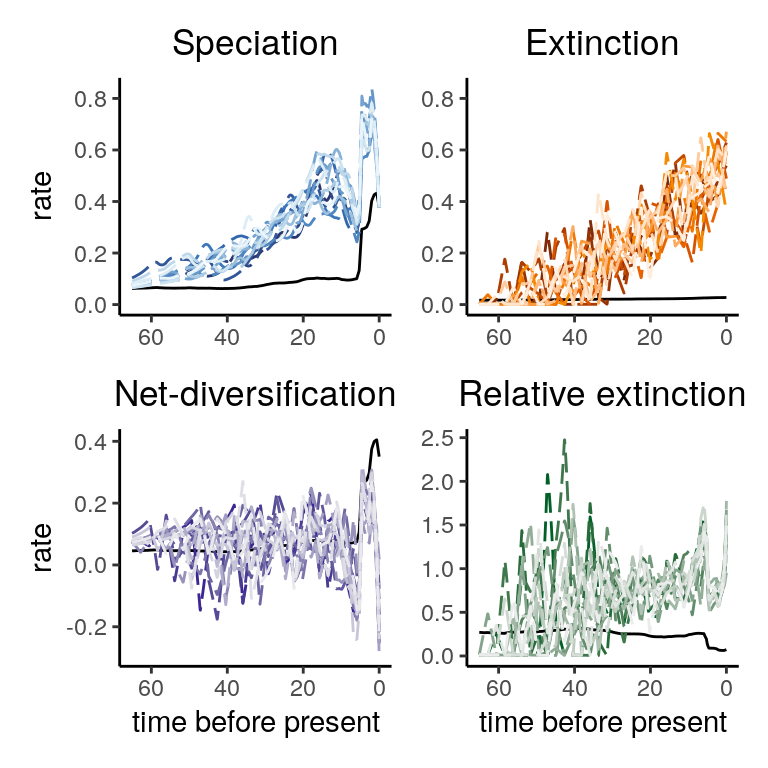
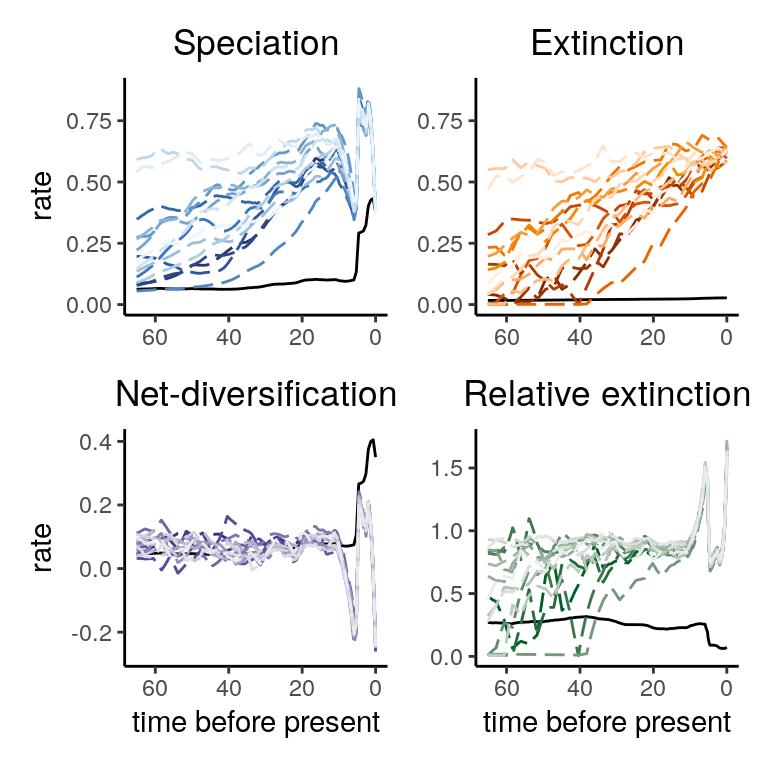
amend BM with a trend so that it actually is autocorrelated

diff --git a/docs/exploring-the-congruence-class.html b/docs/exploring-the-congruence-class.html
@@ -441,10 +441,11 @@ Nonetheless, even in this extreme scenario, the increases and decrease near the 
 <div class="sourceCode" id="cb58"><pre class="sourceCode r"><code class="sourceCode r"><span id="cb58-1"><a href="exploring-the-congruence-class.html#cb58-1"></a>med_times &lt;-<span class="st"> </span><span class="kw">seq</span>(<span class="dv">0</span>, <span class="kw">max</span>(my_model<span class="op">$</span>time), <span class="dt">length.out =</span> <span class="dv">30</span>)</span>
 <span id="cb58-2"><a href="exploring-the-congruence-class.html#cb58-2"></a></span>
 <span id="cb58-3"><a href="exploring-the-congruence-class.html#cb58-3"></a>extinction_rate_samples &lt;-<span class="st"> </span><span class="cf">function</span>(){</span>
-<span id="cb58-4"><a href="exploring-the-congruence-class.html#cb58-4"></a>  y &lt;-<span class="st"> </span><span class="fl">-0.01</span><span class="op">*</span>med_times <span class="op">+</span><span class="st"> </span><span class="kw">rnorm</span>(<span class="dv">30</span>, <span class="dt">mean =</span> <span class="dv">0</span>, <span class="dt">sd =</span> <span class="fl">0.1</span>) <span class="op">+</span><span class="st"> </span><span class="fl">0.5</span></span>
-<span id="cb58-5"><a href="exploring-the-congruence-class.html#cb58-5"></a>  y &lt;-<span class="st"> </span><span class="kw">ifelse</span>(y <span class="op">&lt;</span><span class="st"> </span><span class="fl">0.001</span>, <span class="fl">0.001</span>, y)</span>
-<span id="cb58-6"><a href="exploring-the-congruence-class.html#cb58-6"></a>  f &lt;-<span class="st"> </span><span class="kw">approxfun</span>(med_times, y)</span>
-<span id="cb58-7"><a href="exploring-the-congruence-class.html#cb58-7"></a>}</span></code></pre></div>
+<span id="cb58-4"><a href="exploring-the-congruence-class.html#cb58-4"></a>  noise &lt;-<span class="st"> </span><span class="kw">cumsum</span>(<span class="kw">rnorm</span>(<span class="dv">30</span>, <span class="dt">mean =</span> <span class="dv">0</span>, <span class="dt">sd =</span> <span class="fl">0.03</span>))</span>
+<span id="cb58-5"><a href="exploring-the-congruence-class.html#cb58-5"></a>  y &lt;-<span class="st"> </span><span class="fl">-0.008</span><span class="op">*</span>med_times <span class="op">+</span><span class="st"> </span>noise <span class="op">+</span><span class="st"> </span><span class="fl">0.6</span></span>
+<span id="cb58-6"><a href="exploring-the-congruence-class.html#cb58-6"></a>  y &lt;-<span class="st"> </span><span class="kw">ifelse</span>(y <span class="op">&lt;</span><span class="st"> </span><span class="fl">0.001</span>, <span class="fl">0.001</span>, y)</span>
+<span id="cb58-7"><a href="exploring-the-congruence-class.html#cb58-7"></a>  f &lt;-<span class="st"> </span><span class="kw">approxfun</span>(med_times, y)</span>
+<span id="cb58-8"><a href="exploring-the-congruence-class.html#cb58-8"></a>}</span></code></pre></div>
 <p>For simplicity, we restrict rates that are very small or negative to be a minimum of 0.001 units. As before, we can use <code>ACDC</code> to sample from the congruence class using this form of proposed extinction rates, and plot the rates:</p>
 <div class="sourceCode" id="cb59"><pre class="sourceCode r"><code class="sourceCode r"><span id="cb59-1"><a href="exploring-the-congruence-class.html#cb59-1"></a>samples &lt;-<span class="st"> </span><span class="kw">sample.congruence.class</span>(</span>
 <span id="cb59-2"><a href="exploring-the-congruence-class.html#cb59-2"></a>  my_model,</span>
